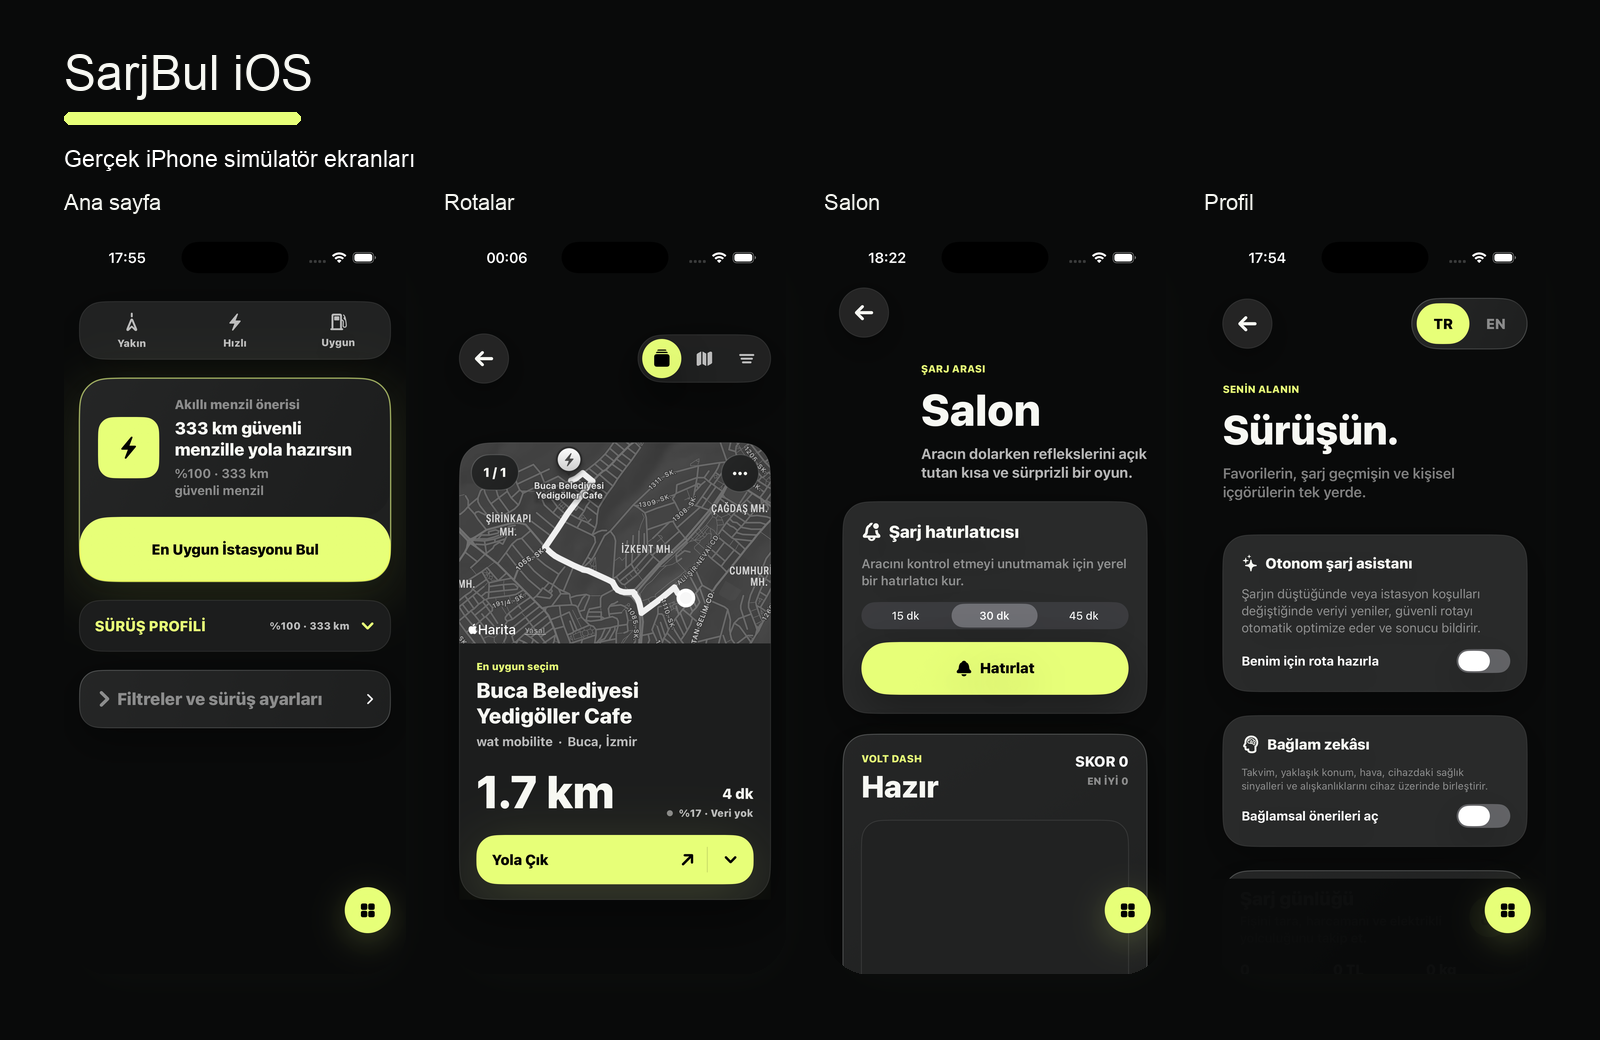
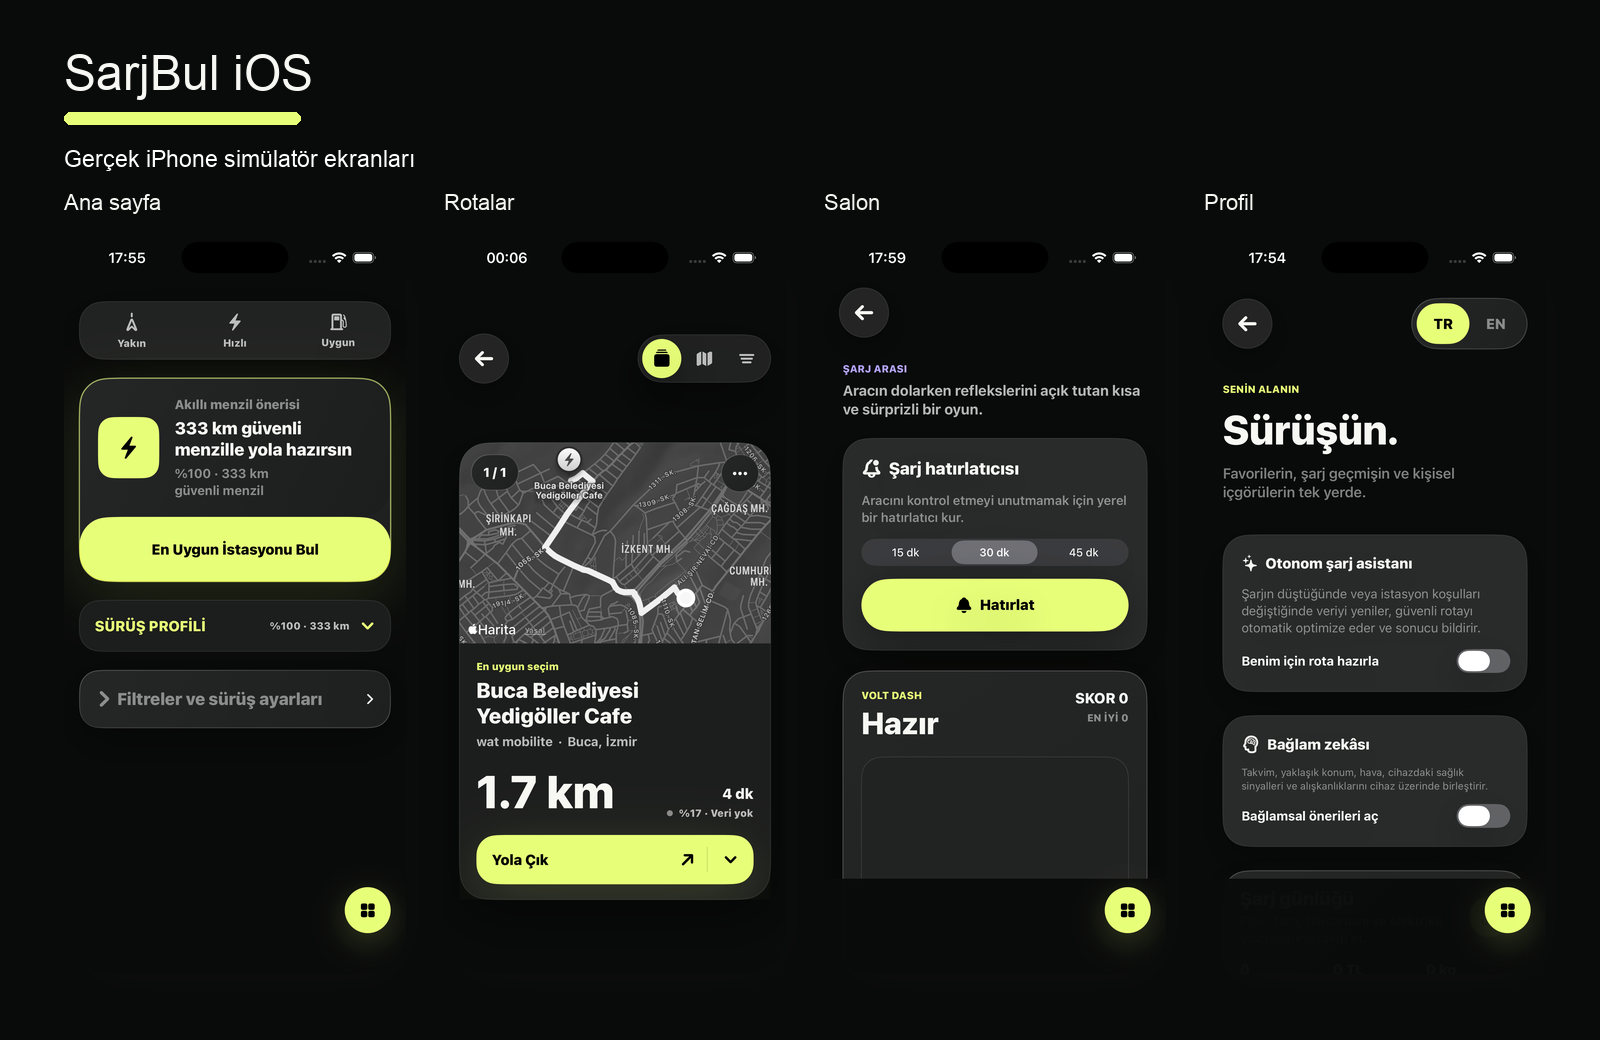
Refine lounge header and accent

Changed region(s): [[0.5, 0.3385, 0.7188, 0.7692], [0.5, 0.8308, 0.5625, 0.9231]]

diff --git a/SarjBul/Features/Lounge/WaitingLoungeView.swift b/SarjBul/Features/Lounge/WaitingLoungeView.swift
@@ -17,7 +17,6 @@ struct WaitingLoungeView: View {
     @State private var reminderMinutes = 30
     @State private var reminderMessage: String?
     @State private var reminderScheduled = false
-    @ScaledMetric(relativeTo: .largeTitle) private var titleSize = 52
     @ScaledMetric(relativeTo: .title) private var statusSize = 36
 
     private let timer = Timer.publish(every: 0.025, on: .main, in: .common)
@@ -52,6 +51,7 @@ struct WaitingLoungeView: View {
         .onDisappear {
             stopTimer()
         }
+        .accessibilityIdentifier("lounge-screen")
     }
 
     private var breakAssistantPanel: some View {
@@ -164,22 +164,16 @@ struct WaitingLoungeView: View {
     }
 
     private var header: some View {
-        VStack(alignment: .leading, spacing: 10) {
+        VStack(alignment: .leading, spacing: 8) {
             Text(settings.t("lounge.kicker"))
                 .font(.caption.weight(.heavy))
-                .foregroundStyle(SBColor.signal)
+                .foregroundStyle(SBColor.loungeAccent)
                 .textCase(.uppercase)
-            Text(settings.t("lounge.title"))
-                .font(SBFont.display(size: min(titleSize, 72), weight: .heavy))
-                .foregroundStyle(SBColor.ink)
-                .lineLimit(1)
-                .minimumScaleFactor(0.78)
             Text(settings.t("lounge.subtitle"))
                 .font(.headline.weight(.bold))
                 .foregroundStyle(SBColor.textSoft)
                 .fixedSize(horizontal: false, vertical: true)
         }
-        .padding(.leading, 92)
     }
 
     private var gamePanel: some View {

diff --git a/SarjBul/App/RootView.swift b/SarjBul/App/RootView.swift
@@ -197,6 +197,7 @@ struct RootView: View {
 
     private func tabButton(_ tab: AppTab) -> some View {
         let isSelected = navigation.tab == tab
+        let selectedColor = tab == .lounge ? SBColor.loungeAccent : SBColor.signal
         return Button {
             Haptic.tap()
             if reduceMotion {
@@ -223,7 +224,7 @@ struct RootView: View {
             .foregroundStyle(isSelected ? SBColor.onSignal : SBColor.textSoft)
             .frame(maxWidth: .infinity)
             .frame(height: 58)
-            .background(isSelected ? SBColor.signal : SBColor.surface.opacity(0.72))
+            .background(isSelected ? selectedColor : SBColor.surface.opacity(0.72))
             .clipShape(RoundedRectangle(cornerRadius: 22, style: .continuous))
             .overlay(
                 RoundedRectangle(cornerRadius: 22, style: .continuous)

diff --git a/SarjBulUITests/AppSmokeUITests.swift b/SarjBulUITests/AppSmokeUITests.swift
@@ -35,6 +35,15 @@ final class AppSmokeUITests: XCTestCase {
         XCTAssertFalse(app.descendants(matching: .any)["location-input"].exists)
     }
 
+    func testLoungeOmitsRedundantPageTitle() throws {
+        let app = XCUIApplication()
+        app.launchArguments = ["--ui-testing-lounge"]
+        app.launch()
+
+        XCTAssertTrue(app.descendants(matching: .any)["lounge-screen"].waitForExistence(timeout: 12))
+        XCTAssertFalse(app.staticTexts["Salon"].exists)
+    }
+
     func testHabitSuggestionAppearsAfterRepeatedUse() throws {
         let app = XCUIApplication()
         app.launchArguments = ["--ui-testing-habit"]

diff --git a/SarjBul/DesignSystem/SBColor.swift b/SarjBul/DesignSystem/SBColor.swift
@@ -39,6 +39,7 @@ enum SBColor {
     static let danger = SBGeneratedTokens.danger.color
     static let warning = SBGeneratedTokens.warning.color
     static let electricBlue = SBGeneratedTokens.electricBlue.color
+    static let loungeAccent = SBGeneratedTokens.loungeAccent.color
     static let glass = SBGeneratedTokens.glass.color
     static let glassStrong = SBGeneratedTokens.glassStrong.color
     static let signal = accent
